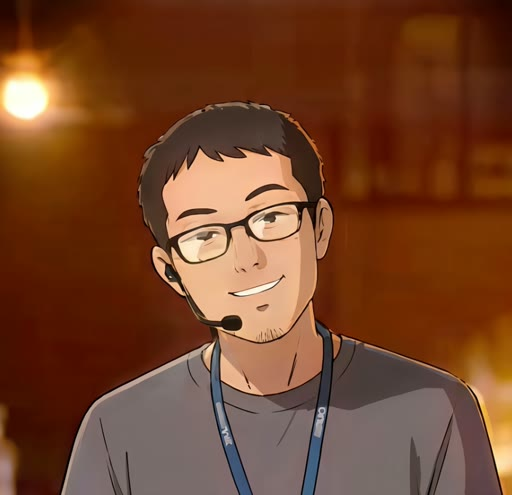
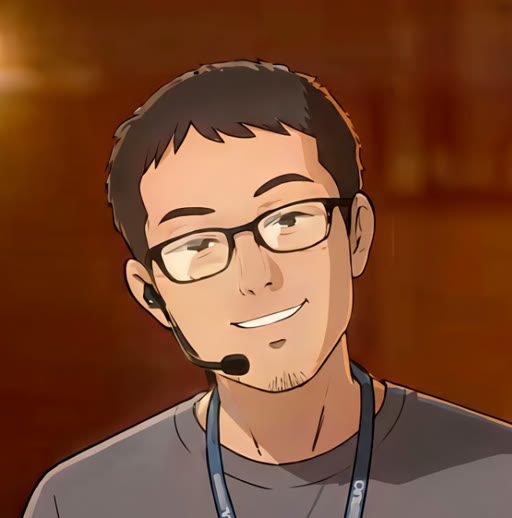
头像二次调整：换更特写版本，版本号升级 20260925b

diff --git a/dashboard.html b/dashboard.html
@@ -647,7 +647,7 @@
 <!-- ABOUT -->
 <section class="about">
   <div class="about-card">
-    <img class="about-avatar" src="assets/avatar.jpg?v=20260925" alt="zhonghuaxin">
+    <img class="about-avatar" src="assets/avatar.jpg?v=20260925b" alt="zhonghuaxin">
     <div class="about-info">
       <div class="about-name">zhonghuaxin</div>
       <a class="about-link" href="https://zhong2520.artstation.com" target="_blank" rel="noopener">

diff --git a/index.html b/index.html
@@ -647,7 +647,7 @@
 <!-- ABOUT -->
 <section class="about">
   <div class="about-card">
-    <img class="about-avatar" src="assets/avatar.jpg?v=20260925" alt="zhonghuaxin">
+    <img class="about-avatar" src="assets/avatar.jpg?v=20260925b" alt="zhonghuaxin">
     <div class="about-info">
       <div class="about-name">zhonghuaxin</div>
       <a class="about-link" href="https://zhong2520.artstation.com" target="_blank" rel="noopener">
